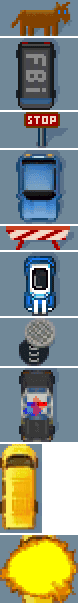
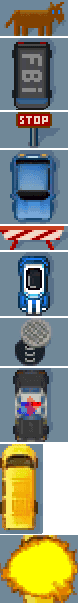
The Bus v0.9: playable version
git-svn-id: svn://kolibrios.org@6984 a494cfbc-eb01-0410-851d-a64ba20cac60

diff --git a/the_bus/the_bus.c b/the_bus/the_bus.c
@@ -6,6 +6,10 @@ D O N K E Y
 Copyright (C) 2008 O.Bogomaz
 */
 
+#ifndef AUTOBUILD
+#include "lang.h--"
+#endif
+
 #define MEMSIZE 1024 * 60;
 
 #include "..\lib\kolibri.h"
@@ -15,18 +19,14 @@ Copyright (C) 2008 O.Bogomaz
 #include "..\lib\obj\libimg_lib.h"
 #include "..\lib\patterns\libimg_load_skin.h"
 
-#define SCALE 2
-
-#include "draw_scalled.h"
-
 libimg_image menu;
 libimg_image road;
 libimg_image objects;
 
 int lives=0, level=0, score=0;
-int don_x, don_y, don_h, don_w=39, don_type, don_image_y;
-int don_h_mas[8] = { 18,36,18,37,12,32,24,37 };
-int bus_x, bus_w=21, bus_y=145, bus_h=44;
+int don_x, don_y, don_h, don_w=68, don_type, don_image_y, don_step_y, don_step_y_default=3;
+int don_h_mas[8] = { 36,72,36,74,24,64,48,74 };
+int bus_x, bus_w=42, bus_y, bus_h=88, bus_y_default=290;
 
 #define SCR_MENU_MAIN   1
 #define SCR_GAME        2
@@ -34,8 +34,8 @@ int bus_x, bus_w=21, bus_y=145, bus_h=44;
 
 #define RAND -1
 
-#define WIN_X 258
-#define WIN_Y 191
+#define WIN_X 516
+#define WIN_Y 382
 
 int screen_type=SCR_MENU_MAIN;
 
@@ -43,7 +43,7 @@ int screen_type=SCR_MENU_MAIN;
 
 int active_menu_item=0;
 
-char *ITEMS_LIST[]={
+char *MENU_LIST[]={
 "New game",
 "Control keys",
 "About",
@@ -64,28 +64,24 @@ void DrawObstacle(signed int x, y) {
 		don_offset_y = don_image_y - y;
 		y = 0;
 	}
-
-	debugval("y", y);
-	debugval("don_h", don_h);
-	debugval("image_h", image_h);
-	debugval("don_offset_y", don_offset_y);
-	DrawScaledImage(objects.image, x, y, don_w, image_h, 0, don_offset_y); 
+	if (y>=don_step_y) DrawBar(x, y-don_step_y, don_w, don_step_y, COLOR_ROAD); //Fill donkey old parts
+	if (image_h>0) DrawLibImage(objects.image, x, y, don_w, image_h, 0, don_offset_y); 
 }
-void DrawBus(dword x, y) { DrawScaledImage(objects.image, x, y, bus_w, bus_h, 0, 222); }
-void DrawBoom(dword x, y) { DrawScaledImage(objects.image, x, y, 39, 33, 0, 268); }
-void DrawHighway() { DrawScaledImage(road.image, 0,0, WIN_X, WIN_Y, 0, 0); }
-void DrawMenuBackground() { DrawScaledImage(menu.image, 0, 0, WIN_X, WIN_Y, 0, 0); }
+void DrawBus(dword x, y) { DrawLibImage(objects.image, x, y, bus_w, bus_h, 0, 444); }
+void DrawBoom(dword x, y) { DrawLibImage(objects.image, x, y, 78, 66, 0, 536); }
+void DrawHighway() { DrawLibImage(road.image, 0,0, WIN_X, WIN_Y, 0, 0); }
+void DrawMenuBackground() { DrawLibImage(menu.image, 0, 0, WIN_X, WIN_Y, 0, 0); }
 
 void main()
 {
 	randomize();
-	GetNewObstacle(RAND);
+	StartNewGame();
 
 	load_dll(libio,  #libio_init,1);
 	load_dll(libimg, #libimg_init,1);
-	Libimg_LoadImage(#menu, "/sys/fonts/menu.png");
-	Libimg_LoadImage(#road, "/sys/fonts/road.png");
-	Libimg_LoadImage(#objects, "/sys/fonts/objects.png");
+	Libimg_LoadImage(#menu, "menu.png");
+	Libimg_LoadImage(#road, "road.png");
+	Libimg_LoadImage(#objects, "objects.png");
 	
 	loop()
 	{
@@ -114,30 +110,28 @@ void main()
 				{
 					if (active_menu_item==0)
 					{
-						lives=3;
-						level=0;
-						score=0;
+						StartNewGame();
 						SetScreen(SCR_GAME);
 					}
 					if (active_menu_item==1) notify("'The Bus\nControl keys:\nLeft, Right, Space\nPress P key for pause'tI");
-					if (active_menu_item==2) notify("'The Bus\nVersion v0.4 Alpha\n\nAuthor: Leency\nMenu image from Freepik.com'tI");
+					if (active_menu_item==2) notify("'The Bus\nVersion v0.9\nAuthor: Leency\nMenu image from Freepik.com'tI");
 					if (active_menu_item==3) ExitProcess();	
 				}				
 				if (key_scancode == SCAN_CODE_SPACE) && (screen_type==SCR_GAME)
 				{
-					DrawScaledBar(bus_x*40+100, bus_y, bus_w, bus_h+1, COLOR_ROAD);
+					DrawBar(bus_x*80+200, bus_y, bus_w, bus_h+1, COLOR_ROAD);
 					if (bus_x==1) bus_x=0; else bus_x=1;
 				}
 				if (key_scancode == SCAN_CODE_LEFT) && (screen_type==SCR_GAME)
 				{
 					if (bus_x==0) break;
-					DrawScaledBar(bus_x*40+100, bus_y, bus_w, bus_h+1, COLOR_ROAD);
+					DrawBar(bus_x*80+200, bus_y, bus_w, bus_h+1, COLOR_ROAD);
 					bus_x=0;
 				}
 				if (key_scancode == SCAN_CODE_RIGHT) && (screen_type==SCR_GAME)
 				{
 					if (bus_x==1) break;
-					DrawScaledBar(bus_x*40+100, bus_y, bus_w, bus_h+1, COLOR_ROAD);
+					DrawBar(bus_x*80+200, bus_y, bus_w, bus_h+1, COLOR_ROAD);
 					bus_x=1;
 				}
 				if (key_scancode == SCAN_CODE_KEY_P)
@@ -149,7 +143,7 @@ void main()
 				break;
 				
 			case evReDraw:
-				DefineAndDrawWindow(250,150,WIN_X * SCALE-1+10,WIN_Y * SCALE-1+skin_height+5,0x74,0,"The Bus",0);
+				DefineAndDrawWindow(250,150,WIN_X-1,WIN_Y-1,0x01,0,"The Bus",0); //0x74 is also possible if you fix bottom border
 				DrawScreen();
 				break;
 				
@@ -158,16 +152,67 @@ void main()
 				break;
 				
 			default:
-				if (screen_type==SCR_GAME) DrawRoad();
-				break;
+				if (screen_type==SCR_GAME) 
+				{
+					if ((don_x == bus_x)&&(don_y + don_h > bus_y )&&(don_y < bus_y + don_h )) {
+						lives--;
+						DrawBus(bus_x*80+200,bus_y);
+						DrawBoom(bus_x*80+180,302);
+						pause(150);
+						GetNewObstacle(RAND);
+						DrawScreen();
+					}
+	
+					if (lives==0) {
+						DrawGameOverMessage();
+						break;
+					}
+
+					don_y += don_step_y;
+
+					if (don_y - don_step_y >= WIN_Y)
+					{
+						GetNewObstacle(RAND);
+						score++;
+						bus_y -= don_step_y+1;
+						DrawBar(bus_x*80+200, bus_y+bus_h, bus_w, don_step_y, COLOR_ROAD);
+						WriteScore();
+					}
+
+					if (score) && (score % 15 == 0) 
+					{
+						score++;
+						NewLevel();
+						DrawScreen();
+						don_step_y++;
+					}
+
+					DrawRoad();
+				}
 		}
 	}
 }
 
+void NewLevel()
+{
+	level++;
+	bus_y = bus_y_default;
+}
+
+void StartNewGame()
+{
+	lives=3;
+	level=0;
+	score=0;
+	bus_y = bus_y_default;
+	don_step_y = don_step_y_default;
+	GetNewObstacle(RAND);
+}
+
 void WriteScore() {
-	DrawScaledImage(road.image, 10, 83, 60, 12, 10, 82);
-	WriteScaledText(10, 70, 0x80, 0xFFFFFF, "Score");
-	WriteScaledText(10, 83, 0x80, 0xFFFFFF, itoa(score));
+	DrawLibImage(road.image, 20, 166, 120, 24, 20, 164);
+	WriteText(20, 140, 0x81, 0xFFFFFF, "Score");
+	WriteText(20, 166, 0x81, 0xFFFFFF, itoa(score));
 }
 
 void SetScreen(dword _screen_type) {
@@ -181,35 +226,23 @@ void DrawScreen()
 	if (screen_type==SCR_MENU_MAIN) 
 	{
 		DrawMenuBackground();
-		WriteScaledText(10, 10, 0x80, 0xE8783F, "TAKE THE CHILDREN HOME");
-		$add ebx, 2 << 16
-		$int 64
+		WriteTextB(20, 20, 0x82, 0xE8783F, "THE BUS");
 		DrawMenuList();
 	}
 	if (screen_type==SCR_GAME) || (screen_type==SCR_PAUSE) 
 	{
 		DrawHighway();
-		WriteScaledText(10, 10, 0x80, 0xFFFFFF, "Lives");
-		WriteScaledText(10, 23, 0x80, 0xFFFFFF, itoa(lives));
-		WriteScaledText(10, 40, 0x80, 0xFFFFFF, "Level");
-		WriteScaledText(10, 53, 0x80, 0xFFFFFF, itoa(level));
+		WriteText(20, 20,  0x81, 0xFFFFFF, "Lives");
+		WriteText(20, 46,  0x81, 0xFFFFFF, itoa(lives));
+		WriteText(20, 80,  0x81, 0xFFFFFF, "Level");
+		WriteText(20, 106, 0x81, 0xFFFFFF, itoa(level));
 		WriteScore();
 		DrawRoad();
 		if (screen_type==SCR_PAUSE) {
-			DrawScaledBar(0,0,70,30,0xFF0000);
-			WriteScaledText(5,7,0x81,0xFFFfff,"PAUSE");			
+			DrawBar(0,0,140,60,0xFF0000);
+			WriteText(10,14,0x83,0xFFFfff,"PAUSE");			
 		}
 	}
-	/*
-	if (screen_type==SCR_PAUSE)
-	{
-		for (i = 0; i < 8; i++) //calculate image y offset for current obstacle
-		{
-			GetNewObstacle(i);
-			DrawObstacle(don_w+1*i, 10);
-		}
-	}
-	*/
 }
 
 
@@ -223,95 +256,60 @@ void DrawMenuItem(int item_n, text_n)
 {
 	dword color;
 	if (active_menu_item==item_n) color = 0xFF0000; else color = 0xFFffff;
-	WriteScaledText(10+1, item_n*28+48+1, 0x80, 0xAAAaaa, ITEMS_LIST[text_n]);
-	WriteScaledText(10, item_n*28+48, 0x80, color, ITEMS_LIST[text_n]);
+	WriteText(20+2, item_n*56+116+2, 0x81, 0xAAAaaa, MENU_LIST[text_n]);
+	WriteText(20, item_n*56+116, 0x81, color, MENU_LIST[text_n]);
 }
 
 
 void DrawGameOverMessage()
 {
-	DrawScaledBar(0, 0, WIN_X, WIN_Y, 0xF3E1BD);
-	WriteScaledText(20, 20, 0x80, 0xA48C74, "GAME OVER");
-	WriteScaledText(20, 40, 0x80, 0xA48C74, "FINAL SCORE");
-	WriteScaledText(20, 70, 0x84, 0xA48C74, itoa(score));
-	$add ecx, 2 << 16
-	$int 64
+	DrawBar(0, 0, WIN_X, WIN_Y, 0xF3E1BD);
+	WriteText(40, 40, 0x81, 0xA48C74, "GAME OVER");
+	WriteText(40, 75, 0x81, 0xA48C74, "FINAL SCORE");
+	WriteTextB(40, 140, 0x85, 0xA48C74, itoa(score));
 	pause(350);	
 	active_menu_item=0;
 	SetScreen(SCR_MENU_MAIN);	
-}
-
-void DrawAccident()
-{
-	DrawBus(bus_x*40+100,bus_y);
-	DrawBoom(bus_x*40+90,151);
-	pause(150);
-	lives--;
-	don_y = -don_h;
-	DrawScreen();
-	if (lives>0) DrawScaledBar(bus_x*40+90, 147-17, 39, 45+23, COLOR_ROAD);
 }
 
 void GetNewObstacle(int N)
 {
 	int i;
 	don_x = random(2);
-	if (N==RAND) {
-		don_type = random(7);
-	}
-	else {
-		don_type = N;
-	}
+	if (N==RAND) don_type = random(7); else don_type = N;
 	don_h = don_h_mas[don_type];
-	don_y = -don_h+1;
+	don_y = -don_h;
 	don_image_y = 0;
-	for (i = 0; i < don_type; i++) //calculate image y offset for current obstacle
-	{
-		don_image_y += don_h_mas[i]+1;
-	}
+	for (i = 0; i < don_type; i++) don_image_y += don_h_mas[i]+2; //calculate image y offset for current obstacle
 }
 
 #define LINE_LENGTH 10
-void DrawRoad()
+int line_y=0;
+void DrawLineSeparator()
 {
-	int y, line_y;
-	
-	if ((don_x == bus_x)&&(don_y + don_h > bus_y )&&(don_y < bus_y + don_h )) DrawAccident();
-	
-	if (lives==0) {
-		DrawGameOverMessage();
-		return;
-	}
-	
-	if (screen_type != SCR_PAUSE) 
-	{
-		line_y+=2;
-		don_y+=2;
-	}
-
+	int y;
+	if (screen_type == SCR_GAME) line_y += don_step_y;
 	//the beginning of the white dashed line between two roadways
 	if (line_y>=20) {
 		line_y=0;
 	}
 	else 
 	{ 
-		DrawScaledBar(129, 0, 1, line_y, COLOR_ROAD); 
-		DrawScaledBar(129, 0, 1, line_y-LINE_LENGTH, 0xDDE9F2); 
+		DrawBar(258, 0, 2, line_y, COLOR_ROAD); 
+		DrawBar(258, 0, 2, line_y-LINE_LENGTH, 0xDDE9F2); 
 	}
 	for (y=0; y<WIN_Y-20; y+=20) //white dashed line between two roadways
 	{
-		DrawScaledBar(129, line_y+y, 1, LINE_LENGTH, 0xDDE9F2);
-		DrawScaledBar(129, line_y+y+LINE_LENGTH, 1, LINE_LENGTH, COLOR_ROAD); 
+		DrawBar(258, line_y+y, 2, LINE_LENGTH, 0xDDE9F2);
+		DrawBar(258, line_y+y+LINE_LENGTH, 2, LINE_LENGTH, COLOR_ROAD); 
 	}
-	if (don_y >= WIN_Y)
-	{
-		GetNewObstacle(RAND);
-		score++;
-		WriteScore();
-	}
-	DrawScaledBar(don_x*don_w+93, don_y-2, 30, 2, COLOR_ROAD); //Fill donkey old parts
-	DrawObstacle(don_x*don_w+90,don_y);
-	DrawBus(bus_x*40+100,147);
+}
+
+void DrawRoad()
+{
+	DrawLineSeparator();
+	DrawObstacle(don_w+10*don_x+186,don_y);
+	DrawBus(bus_x*80+200,bus_y);
 }
 
 
